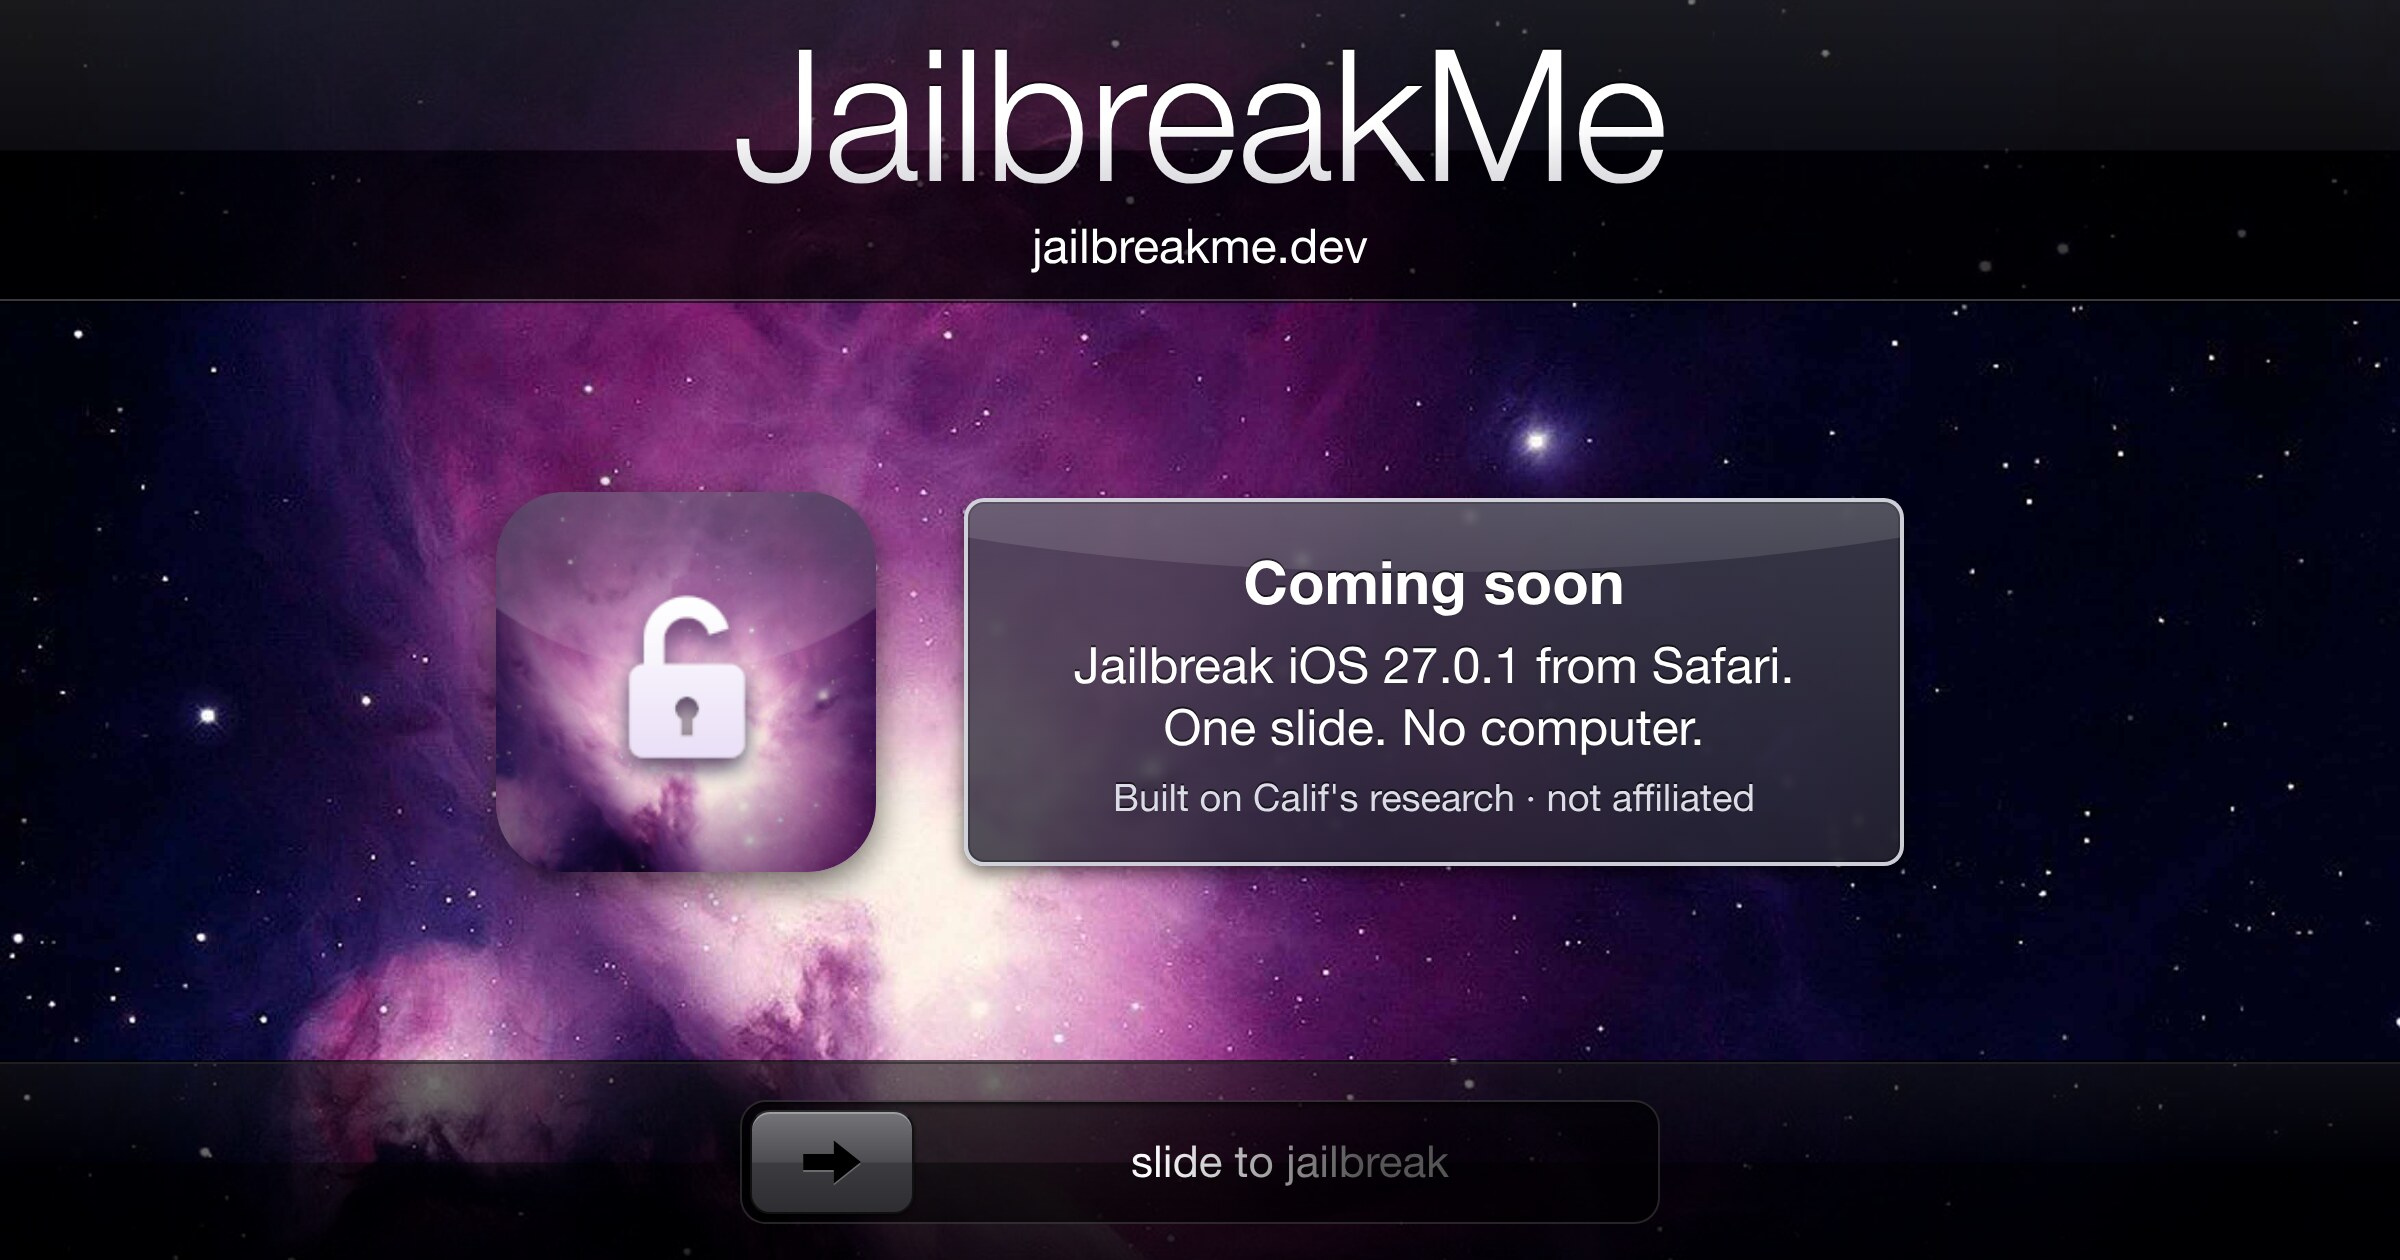
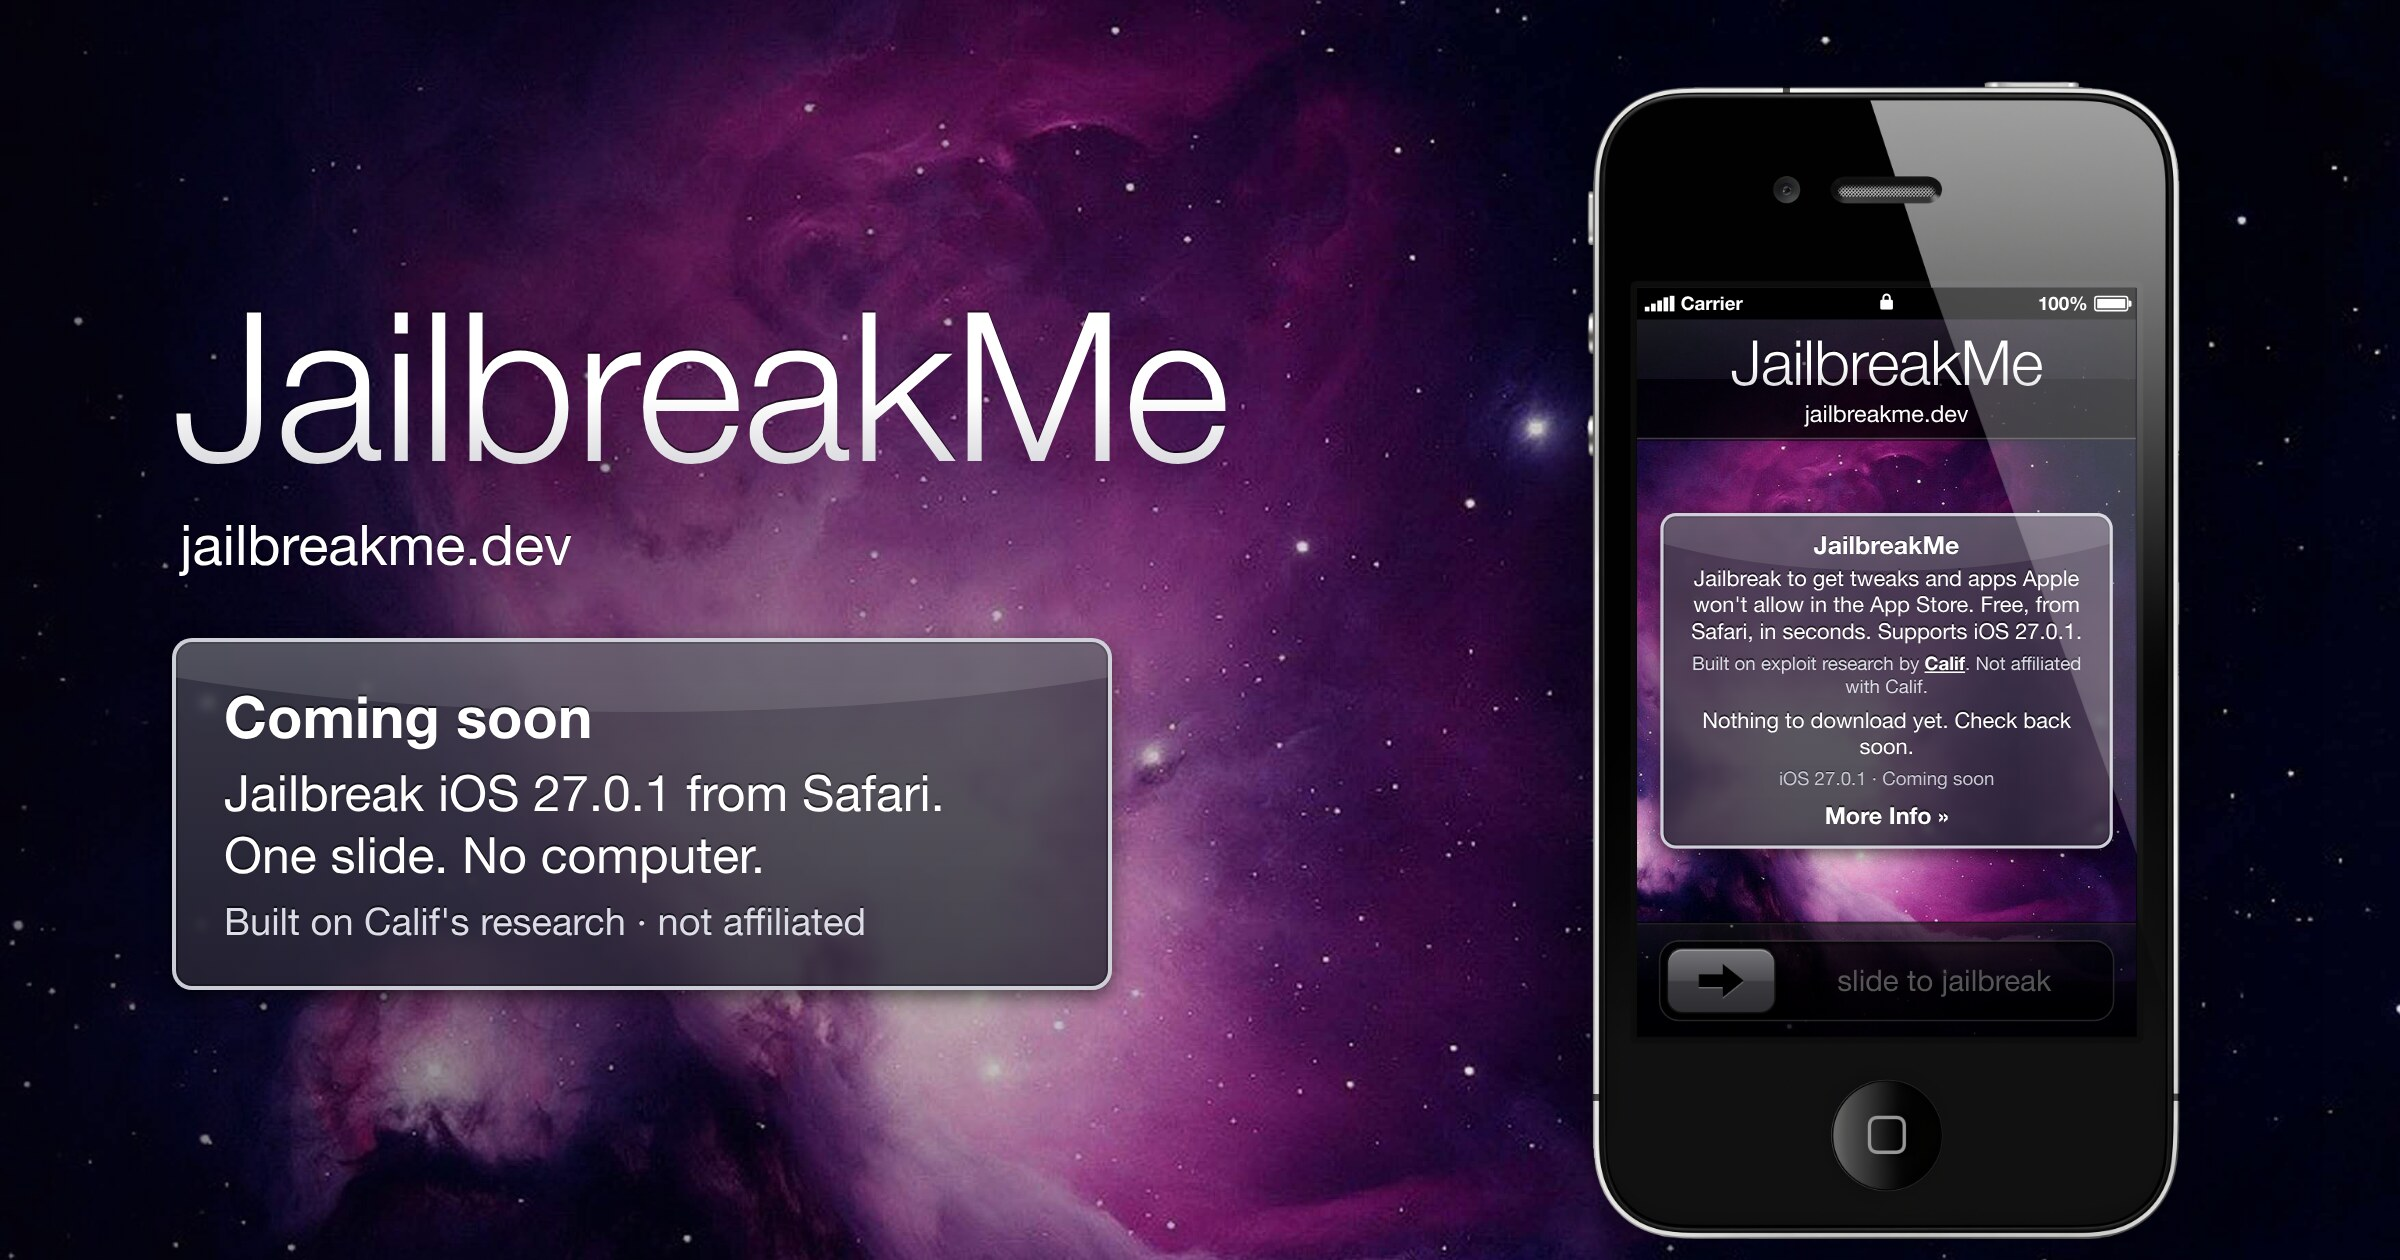
Link card: the site on the Teehan+Lax iPhone 4S with its screen glare; lock screen fits short (4S/SE) screens

diff --git a/og.html b/og.html
@@ -1,41 +1,69 @@
 <!doctype html>
-<!-- The link-preview card (og.png), drawn with the site's own styles. Render:
-     chromium --headless --hide-scrollbars --force-device-scale-factor=2 --window-size=1200,630 --screenshot=og.png http://localhost:8000/og.html -->
+<!-- The link-preview card (og.jpg): the site running on the black iPhone 4S from the Teehan+Lax iOS 5 GUI kit, with
+     its screen glare. The phone bitmap isn't committed: copy the kit's "iPhone 4 Black" layer (ios5 img-hd/08.png,
+     1520x2970, screen at 128,530 1280x1920) to ref/4s.png. Render:
+     chromium --headless --hide-scrollbars --force-device-scale-factor=2 --window-size=1200,630 --virtual-time-budget=3000 \
+       --user-agent="Mozilla/5.0 (iPhone; CPU iPhone OS 27_0_1 like Mac OS X) AppleWebKit/605.1.15" \
+       --screenshot=og.png http://localhost:8000/og.html && magick og.png -quality 88 og.jpg -->
 <html lang="en">
 <head>
 <meta charset="utf-8">
 <title>JailbreakMe card</title>
 <link rel="stylesheet" href="style.css">
 <style>
-  body { height: 630px; min-height: 0; background-position: 38% 42%; }
-  .clock { font-size: 92px; }
-  .date { font-size: 24px; }
-  .card { flex: 1; display: flex; align-items: center; justify-content: center; gap: 44px; }
-  .card img { width: 190px; height: 190px; border-radius: 34px; box-shadow: 0 6px 18px rgba(0,0,0,.6); }
-  .alert { max-width: 470px; padding: 22px 22px 20px; font-size: 25px; line-height: 31px; }
-  .alert h2 { font-size: 30px; line-height: 36px; margin-bottom: 8px; }
-  .alert p { margin: 0 0 8px; }
-  .alert .credit { font-size: 19px; line-height: 24px; margin: 0; }
-  .lock-bottom { padding: 18px; }
-  .slider-track { max-width: 460px; }
-  .slider-label { animation: none; background-position: 60% 0; }
+  html, body { width: 1200px; height: 630px; overflow: hidden; }
+  body {
+    display: flex; flex-direction: row; align-items: center;
+    background: linear-gradient(90deg, rgba(5,2,14,.55), rgba(5,2,14,.1) 60%), #0b0718 url("bg.jpg") 30% 45% / cover no-repeat;
+  }
+  .side { flex: 1; padding: 0 0 0 86px; text-align: left; }
+  .side .clock { font-size: 104px; text-align: left; }
+  .side .date { margin: 6px 0 30px 4px; font-size: 28px; }
+  .side .alert { max-width: 470px; text-align: left; padding: 20px 24px; font-size: 25px; line-height: 31px; }
+  .side .alert h2 { font-size: 29px; line-height: 34px; margin-bottom: 6px; }
+  .side .alert p { margin: 0 0 6px; }
+  .side .alert .credit { font-size: 19px; line-height: 24px; margin: 0; }
+
+  /* The phone: the kit's bitmap at --s of its point size (380 x 742.5 pt), the page in its 320 x 480 pt screen. */
+  .phone { --s: .78; position: relative; flex: none; width: calc(380px * var(--s)); height: calc(742.5px * var(--s)); margin: 30px 110px 0 0; }
+  .phone > img { position: absolute; inset: 0; width: 100%; height: 100%; filter: drop-shadow(0 18px 30px rgba(0,0,0,.6)); }
+  .screen { position: absolute; left: calc(32px * var(--s)); top: calc(132.5px * var(--s)); width: 320px; height: 480px; overflow: hidden; transform: scale(var(--s)); transform-origin: 0 0; background: #000; }
+  .screen iframe { display: block; width: 320px; height: 460px; border: 0; }
+  .glare { position: absolute; inset: 0; z-index: 1; display: block; pointer-events: none; background: linear-gradient(200deg, rgba(255,255,255,.3), rgba(255,255,255,.1)); clip-path: polygon(58.7% -1%, 101% -1%, 101% 77.2%); } /* the kit's "Screen Glare" */
+
+  /* iOS 6 status bar, translucent black over the lock screen */
+  .status { display: flex; align-items: center; height: 20px; padding: 0 5px; background: rgba(0,0,0,.6); color: #fff; font-size: 12px; font-weight: bold; text-shadow: 0 -1px 0 rgba(0,0,0,.6); }
+  .status .bars { display: flex; align-items: flex-end; gap: 1px; height: 10px; margin-right: 4px; }
+  .status .bars i { width: 3px; background: #fff; }
+  .status .mid { flex: 1; text-align: center; }
+  .status .bat { width: 22px; height: 10px; border: 1px solid #fff; border-radius: 2px; padding: 1px; position: relative; }
+  .status .bat::before { content: ""; display: block; height: 100%; background: #fff; }
+  .status .bat::after { content: ""; position: absolute; right: -3px; top: 2px; width: 2px; height: 4px; background: #fff; border-radius: 0 1px 1px 0; }
+  .status .side-r { width: 70px; display: flex; justify-content: flex-end; align-items: center; gap: 4px; }
+  .status .side-l { width: 70px; display: flex; align-items: center; }
 </style>
 </head>
 <body>
-<header class="lock-top"><h1 class="clock">JailbreakMe</h1><p class="date">jailbreakme.dev</p></header>
-<main class="card">
-  <img src="apple-touch-icon.png" alt="">
+<div class="side">
+  <h1 class="clock">JailbreakMe</h1>
+  <p class="date">jailbreakme.dev</p>
   <div class="alert">
     <h2>Coming soon</h2>
     <p>Jailbreak iOS 27.0.1 from Safari.<br>One slide. No computer.</p>
     <p class="credit">Built on Calif's research · not affiliated</p>
   </div>
-</main>
-<footer class="lock-bottom">
-  <div class="slider-track">
-    <span class="slider-label">slide to jailbreak</span>
-    <div class="slider-knob"><svg viewBox="0 0 40 30"><path d="M4 10.5h17V3l15 12-15 12v-7.5H4z"/></svg></div>
+</div>
+<div class="phone">
+  <img src="ref/4s.png" alt="">
+  <div class="screen">
+    <div class="status">
+      <span class="side-l"><span class="bars"><i style="height:3px"></i><i style="height:5px"></i><i style="height:7px"></i><i style="height:9px"></i><i style="height:10px"></i></span>Carrier</span>
+      <span class="mid"><svg viewBox="0 0 10 12" width="9" height="11" fill="#fff"><path d="M2 5V3.5a3 3 0 0 1 6 0V5h.5a1 1 0 0 1 1 1v5a1 1 0 0 1-1 1h-7a1 1 0 0 1-1-1V6a1 1 0 0 1 1-1zm1.4 0h3.2V3.5a1.6 1.6 0 0 0-3.2 0z"/></svg></span>
+      <span class="side-r">100% <span class="bat"></span></span>
+    </div>
+    <iframe src="index.html" scrolling="no"></iframe>
+    <i class="glare"></i>
   </div>
-</footer>
+</div>
 </body>
 </html>

diff --git a/style.css b/style.css
@@ -156,3 +156,22 @@ html:active-view-transition-type(pop)::view-transition-old(root) { animation-nam
 @keyframes from-left { from { transform: translateX(-100%); } }
 @keyframes to-right { to { transform: translateX(100%); } }
 @media (prefers-reduced-motion: reduce) { ::view-transition-old(root), ::view-transition-new(root) { animation: none; } }
+
+/* Short screens (iPhone 4S/SE in Safari, ~460pt tall): the lock screen tightens up so the alert still fits whole. */
+@media (max-height: 540px) {
+  .lock-top { padding-bottom: 6px; }
+  .clock { font-size: 40px; }
+  .date { font-size: 15px; }
+  .lock-mid { padding: 8px 14px; }
+  .alert { padding: 9px 12px; font-size: 14px; line-height: 17px; }
+  .alert h2 { font-size: 16px; line-height: 19px; margin-bottom: 3px; }
+  .alert p { margin-bottom: 5px; }
+  .alert .credit, .alert .device { font-size: 12px; line-height: 15px; }
+  .alert .more { margin-top: 0; padding: 2px 8px; font-size: 15px; }
+  .alert-btn { height: 36px; margin-top: 6px; font-size: 15px; line-height: 34px; }
+  .steps { font-size: 13px; line-height: 20px; }
+  .lock-bottom { padding: 10px 14px calc(env(safe-area-inset-bottom) + 10px); }
+  .slider-track { height: 52px; }
+  .slider-knob { width: 70px; height: 42px; }
+  .slider-label { inset: 0 8px 0 82px; font-size: 19px; }
+}

diff --git a/info.html b/info.html
@@ -14,7 +14,7 @@
 <meta property="og:image" content="https://jailbreakme.dev/og.jpg">
 <meta property="og:image:width" content="2400">
 <meta property="og:image:height" content="1260">
-<meta property="og:image:alt" content="The JailbreakMe lock screen: a purple nebula, the padlock icon, Coming soon, and slide to jailbreak.">
+<meta property="og:image:alt" content="JailbreakMe on an iPhone 4S: the purple nebula lock screen with slide to jailbreak, beside Coming soon for iOS 27.0.1.">
 <meta name="twitter:card" content="summary_large_image">
 <link rel="canonical" href="https://jailbreakme.dev/info.html">
 <link rel="icon" href="favicon.png">

diff --git a/index.html b/index.html
@@ -14,7 +14,7 @@
 <meta property="og:image" content="https://jailbreakme.dev/og.jpg">
 <meta property="og:image:width" content="2400">
 <meta property="og:image:height" content="1260">
-<meta property="og:image:alt" content="The JailbreakMe lock screen: a purple nebula, the padlock icon, Coming soon, and slide to jailbreak.">
+<meta property="og:image:alt" content="JailbreakMe on an iPhone 4S: the purple nebula lock screen with slide to jailbreak, beside Coming soon for iOS 27.0.1.">
 <meta name="twitter:card" content="summary_large_image">
 <link rel="canonical" href="https://jailbreakme.dev/">
 <link rel="icon" href="favicon.png">
